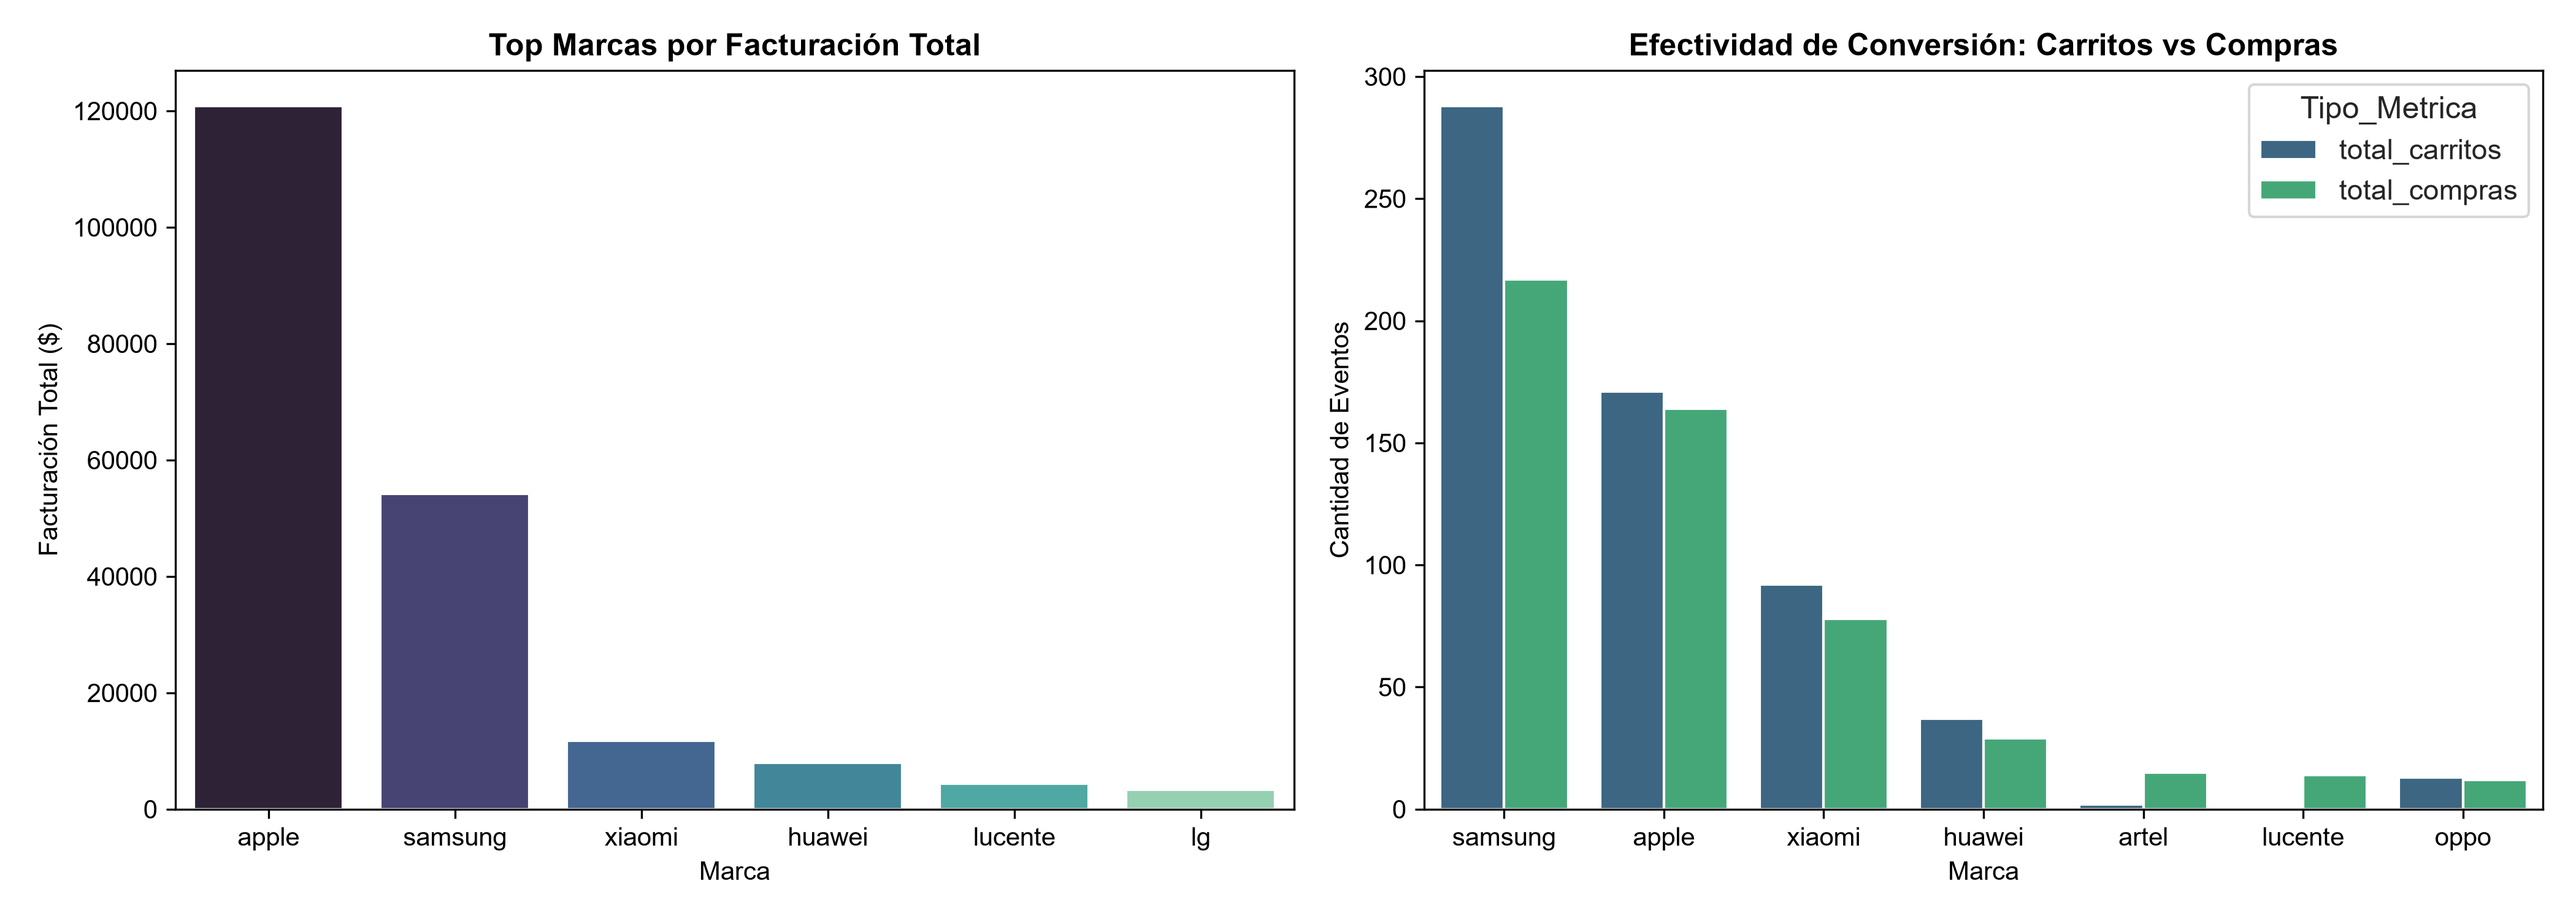
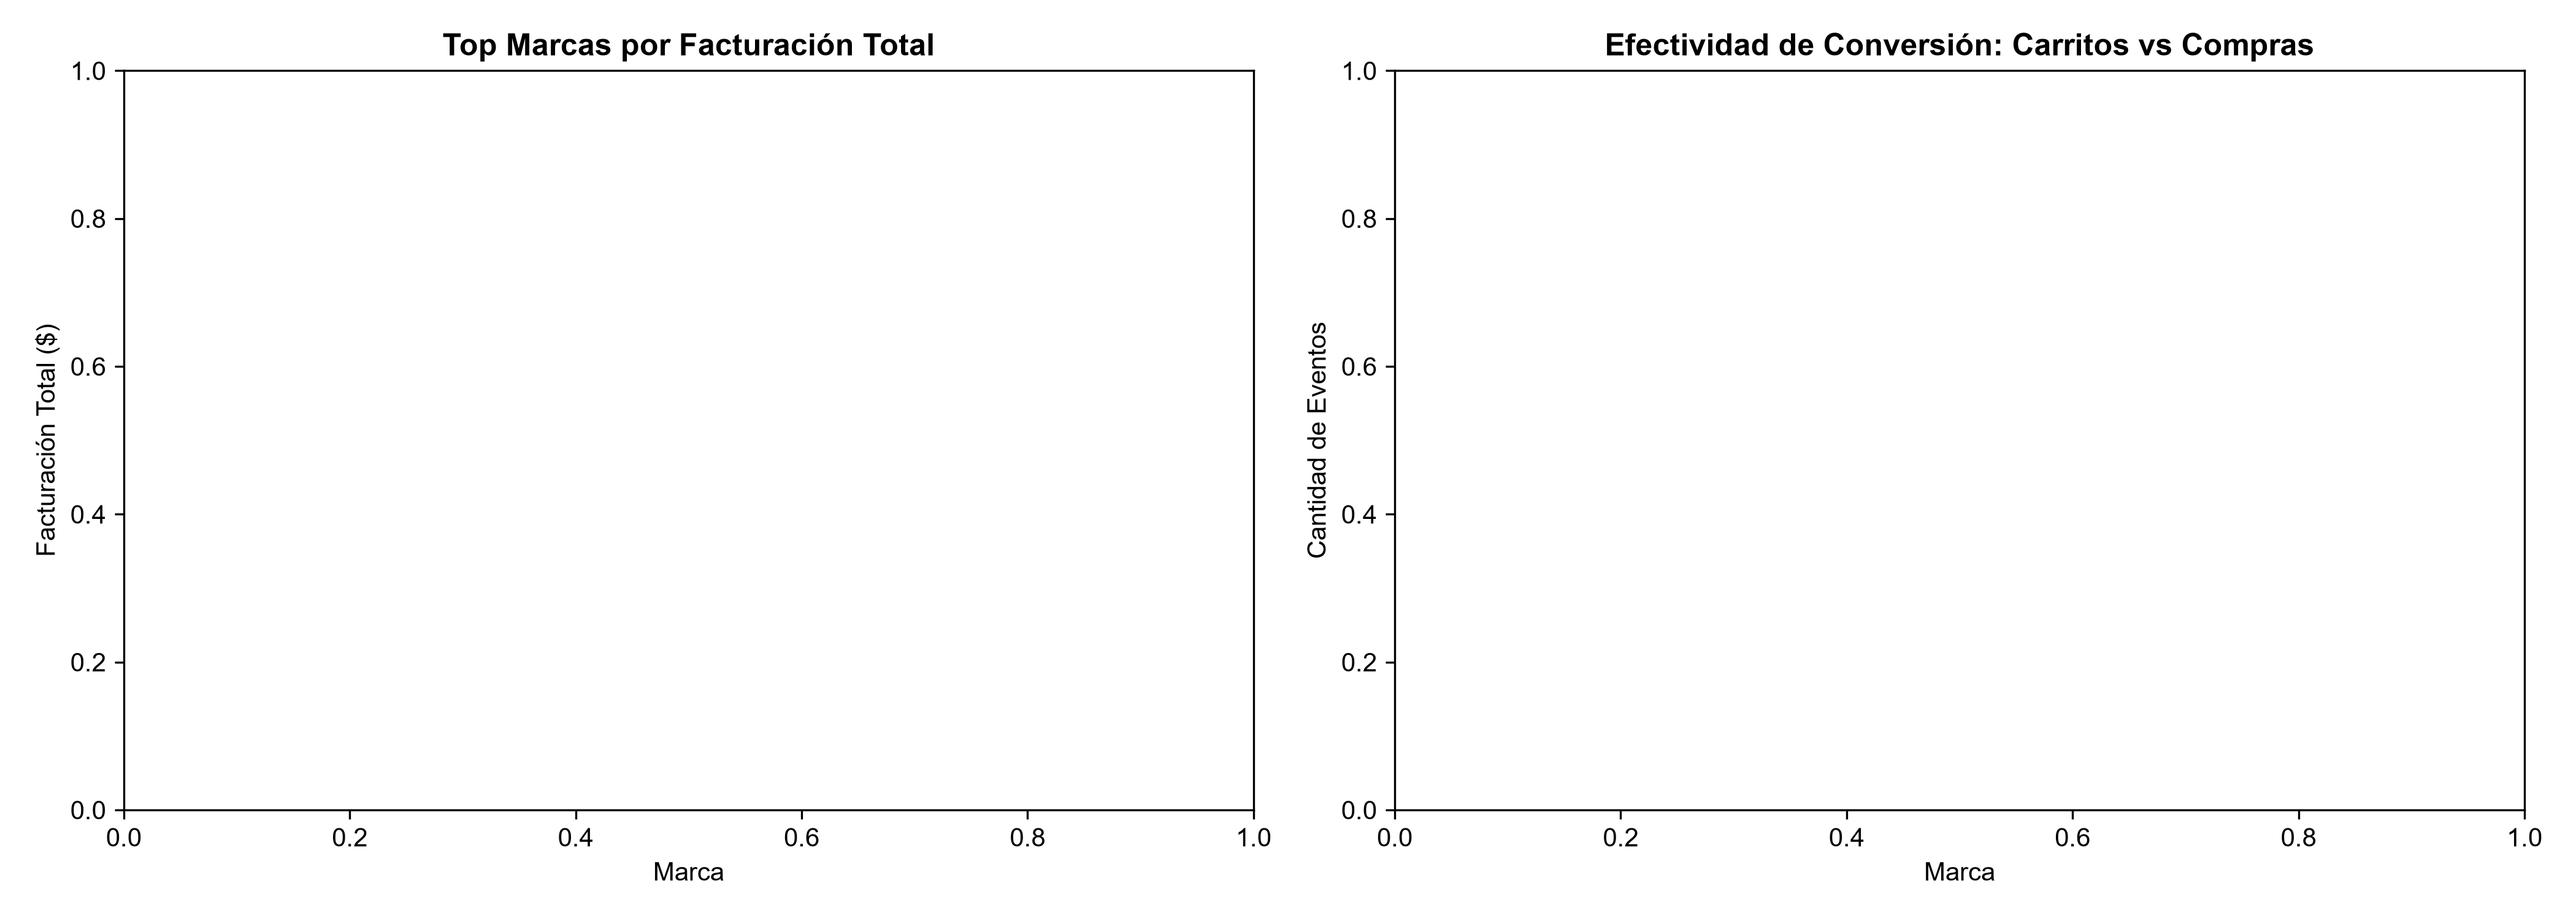
analitica-lake modificado con agregación de las consultas en zona gold

diff --git a/DataLake/scripts/analitica-lake.py b/DataLake/scripts/analitica-lake.py
@@ -10,6 +10,8 @@ import seaborn as sns
 SCRIPT_DIR = os.path.dirname(os.path.abspath(__file__))
 DATALAKE_DIR = SCRIPT_DIR if os.path.exists(os.path.join(SCRIPT_DIR, "data")) else os.path.abspath(os.path.join(SCRIPT_DIR, ".."))
 PREPARED_DATA_DIR = os.path.join(DATALAKE_DIR, "data", "prepared")
+# Ruta Gold 
+GOLD_DATA_DIR = os.path.join(DATALAKE_DIR, "data", "gold")
 
 spark = (
     SparkSession.builder
@@ -108,6 +110,18 @@ session_friction = df.groupBy("user_session").agg(
  .orderBy(F.desc("total_carritos"))
 session_friction.show(10, truncate=False)
 
+# Creación de directorio gold
+print("\n[INFO] Guardando vistas agregadas en la Zona Gold (/data/gold)...")
+os.makedirs(GOLD_DATA_DIR, exist_ok=True)
+
+funnel_metricas.write.mode("overwrite").parquet(os.path.join(GOLD_DATA_DIR, "gold_funnel_conversion"))
+top_productos.write.mode("overwrite").parquet(os.path.join(GOLD_DATA_DIR, "gold_top_productos"))
+rfm_df.write.mode("overwrite").parquet(os.path.join(GOLD_DATA_DIR, "gold_clientes_rfm"))
+hourly_df.write.mode("overwrite").parquet(os.path.join(GOLD_DATA_DIR, "gold_trafico_horario"))
+session_friction.write.mode("overwrite").parquet(os.path.join(GOLD_DATA_DIR, "gold_friccion_sesiones"))
+
+print("[OK] Tablas analíticas almacenadas exitosamente en la capa Gold.")
+
 # Exportación gráfica
 print("\n[INFO] Generando visualización gráfica para evidencias...")
 
@@ -146,3 +160,5 @@ plt.tight_layout()
 output_chart = os.path.join(DATALAKE_DIR, "reporte_analitico_lakehouse.png")
 plt.savefig(output_chart, dpi=300)
 print(f"[OK] Gráfico mejorado guardado en: {output_chart}")
+
+spark.stop()
